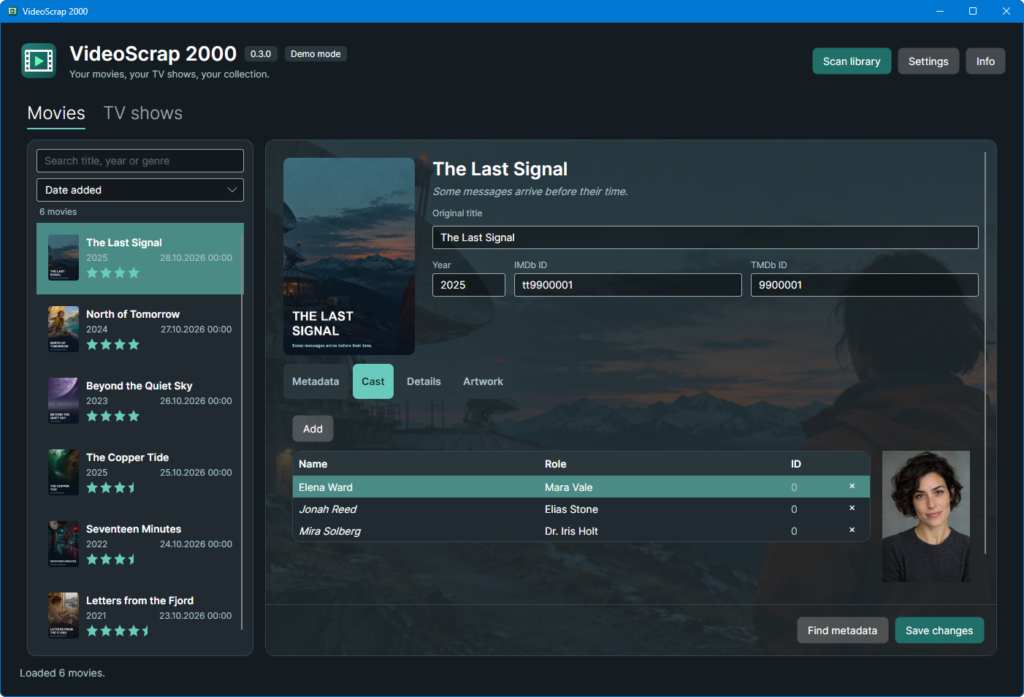
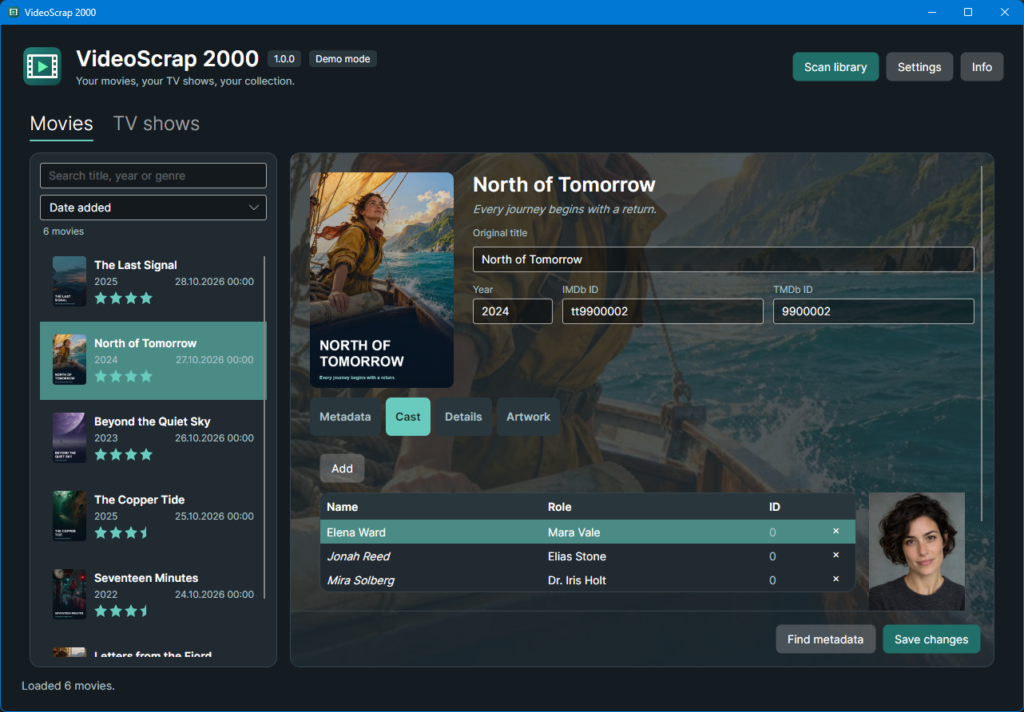
Simplify release downloads and refresh README screenshots

diff --git a/docs/development.md b/docs/development.md
@@ -12,9 +12,9 @@ dotnet test VideoScrap2000.Tests/VideoScrap2000.Tests.csproj -m:1
 
 The desktop app lives in `MovieScrap2000`, the platform-independent core in `VideoScrap2000.Core`, and the test suite in `VideoScrap2000.Tests`. The app continues to use the existing SQLite cache in its `MovieScrap2000` application data folder.
 
-GitHub Actions tests on Windows, Linux, and macOS. The packaging workflow builds separate x64 and ARM64 archives for each platform. Each platform has two downloads. **Self-contained** packages include .NET 10 and run after extraction. Smaller **framework-dependent** packages require the matching .NET 10 Runtime to be installed. Use `-FrameworkDependent` to build this smaller variant locally. Packages are checked for debug symbols, test components, editor files, and libraries for other operating systems. Archives use maximum compression and include separate SHA-256 checksums and size manifests. Universal macOS libraries are reduced to the selected CPU architecture when packaging on macOS. Linux uses X11 or XWayland. macOS packages contain an executable directory.
+GitHub Actions tests on Windows, Linux, and macOS. The packaging workflow builds separate x64 and ARM64 archives for each platform. Each platform has two downloads. **Self-contained** packages include .NET 10 and run after extraction. Smaller **framework-dependent** packages require the matching .NET 10 Runtime to be installed. Use `-FrameworkDependent` to build this smaller variant locally. Packages are checked for debug symbols, test components, editor files, and libraries for other operating systems. Archives use maximum compression. CI artifacts retain per-package checksums and size manifests; public releases provide one combined SHA256SUMS.txt. Universal macOS libraries are reduced to the selected CPU architecture when packaging on macOS. Linux uses X11 or XWayland. macOS packages contain an executable directory.
 
-To prepare a release, push a version tag matching the project version, for example `v1.0.0`. Alternatively, run **Build and platform packages** from **Actions** and enable **Create or update the unpublished release draft after packaging**. After tests and package checks succeed, the workflow creates or updates the draft with all twelve archives, checksums, manifests and measured download/extracted sizes. Already published releases cannot be overwritten by this workflow. Review the draft before publishing. Leave the option disabled to build archives without changing a release.
+To prepare a release, push a version tag matching the project version, for example `v1.0.0`. Alternatively, run **Build and platform packages** from **Actions** and enable **Create or update the unpublished release draft after packaging**. After tests and package checks succeed, the workflow creates or updates the draft with twelve archives, one combined checksum file and download tables grouped by system and processor. Smaller .NET-dependent downloads and extracted sizes are in collapsible sections. Already published releases cannot be overwritten by this workflow. Review the draft before publishing. Leave the option disabled to build archives without changing a release.
 
 For builds with Fanart.tv enabled, set the GitHub Actions repository secret `FANART_TV_PROJECT_API_KEY` to the app's project key. The packaging workflow uses it on `main` and version tags. Local release builds accept the same environment variable. For local development and debugging, set FANART_TV_PROJECT_API_KEY in the environment inherited by the app and restart your IDE. The GitHub secret is available inside GitHub Actions only. The project key is embedded in the resulting binaries and can be extracted, so use the app's project key only.
 

diff --git a/docs/releases/v1.0.0.md b/docs/releases/v1.0.0.md
@@ -2,6 +2,8 @@
 
 The first public release of VideoScrap 2000: a desktop metadata and artwork manager for movies and TV shows on Windows, Linux and macOS.
 
+<!-- RELEASE_DOWNLOADS -->
+
 ## Highlights
 
 - Separate movie and TV-show libraries, with seasons, episodes and cast.
@@ -13,17 +15,6 @@ The first public release of VideoScrap 2000: a desktop metadata and artwork mana
 - An editable AI prompt dialog for short plot outlines: copy to ChatGPT or another service, then paste the result back. No AI API subscription is required by the app.
 - A separate demo mode with fictional titles and original generated artwork.
 
-## Choose your download
-
-Pick your operating system and CPU architecture: Windows, Linux or macOS; x64 or ARM64 (Apple Silicon on macOS).
-
-- **Self-contained:** includes .NET 10. Extract and start the app.
-- **Framework-dependent:** smaller download; requires the matching **.NET 10 Runtime** to be installed.
-
-Windows uses ZIP archives; Linux and macOS use TAR.GZ. Run `VideoScrap2000.exe` on Windows or `VideoScrap2000` on Linux/macOS from the extracted folder. macOS packages are executable folders, not notarized application bundles. Linux requires X11 or XWayland and `libcurl-gnutls.so.4`; the small libmms dependency is bundled.
-
-Archives contain only the selected platform's runtime libraries. Debug symbols, tests, documentation screenshots and branding source files are excluded. Each download has a SHA-256 checksum and a manifest recording download and extracted sizes.
-
 ## First start
 
 Open **Settings**, select your movie and TV folders, then **Scan library**. Review metadata and artwork before choosing **Save changes**. Release packages include the Fanart.tv project key, so no per-client project-key setup is needed.
@@ -31,3 +22,12 @@ Open **Settings**, select your movie and TV folders, then **Scan library**. Revi
 For Kodi, scan for new items. To import changed NFOs for an existing item, open **Information → Refresh** and use the local information. VideoScrap 2000 does not write directly to Kodi's database.
 
 Read the [README](https://github.com/gruetze-software/VideoScrap2000#readme) and [Kodi guide](https://github.com/gruetze-software/VideoScrap2000/blob/v1.0.0/docs/kodi.md).
+
+<details>
+<summary>Starting the app and platform requirements</summary>
+
+Extract the archive and run `VideoScrap2000.exe` on Windows or `VideoScrap2000` on Linux/macOS. macOS packages are executable folders, not notarized application bundles. Linux requires X11 or XWayland and `libcurl-gnutls.so.4`; libmms is bundled.
+
+Packages contain only the selected platform's runtime libraries. Debug symbols, tests, screenshots and branding source files are excluded.
+
+</details>

diff --git a/README.md b/README.md
@@ -4,7 +4,7 @@
 
 VideoScrap 2000 is a desktop library manager for movies and TV shows on Windows, Linux, and macOS. Browse your collection, find metadata and artwork, and save the results as NFO and image files beside your videos. It works with local folders and mounted network shares.
 
-[GitHub Releases](https://github.com/gruetze-software/VideoScrap2000/releases)
+[Download VideoScrap 2000](https://github.com/gruetze-software/VideoScrap2000/releases/latest#downloads)
 
 <img src="branding/screenshots/screenshot1.png" width="724" alt="Movie Mainform" />
 
@@ -62,4 +62,6 @@ dotnet run --project MovieScrap2000/MovieScrap2000.csproj
 
 [Build, test and release instructions](docs/development.md).
 
-[Icon PNG](docs/VideoScrap-2000-icon.png) · [Layered Paint.NET source](docs/VideoScrap-2000-icon.pdn) · [Paint.NET drawing guide (German)](docs/Paint.NET-Anleitung-App-Symbol.md) · [Third-party notices](THIRD-PARTY-NOTICES.md) · [Grütze-Software](https://github.com/gruetze-software) · [Ko-fi](https://ko-fi.com/gruetzesoftware)
+Enjoy VideoScrap 2000? [Buy me a small coffee on Ko-fi](https://ko-fi.com/gruetzesoftware) to support its development. Thank you!
+
+[Third-party notices](THIRD-PARTY-NOTICES.md) · [Grütze-Software](https://github.com/gruetze-software)
